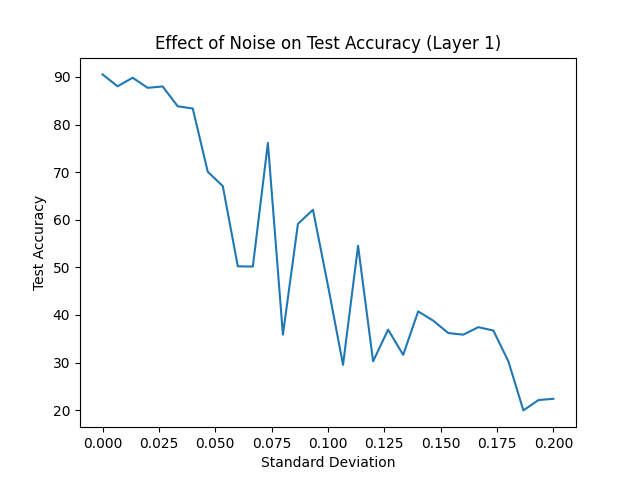
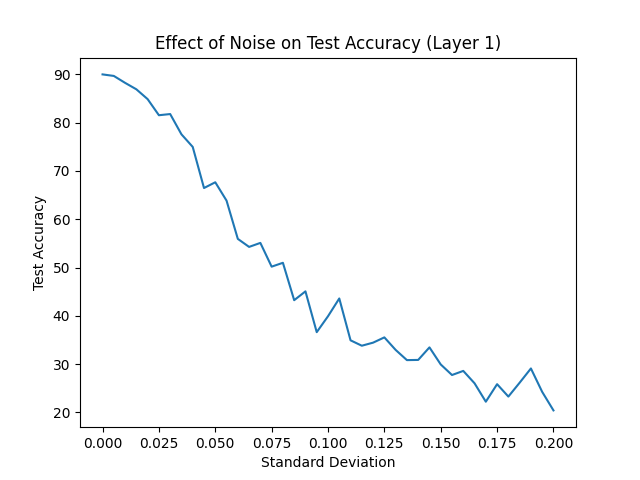
updated PyTorch graph with methods

diff --git a/noise_weight_analysis/FashionMNIST_Noise_PyTorch.py b/noise_weight_analysis/FashionMNIST_Noise_PyTorch.py
@@ -141,7 +141,7 @@ print(model)
 
 
 
-num_epochs = 15
+num_epochs = 20 
 for epoch in range(num_epochs):
     # training phase
     model.train()
@@ -237,8 +237,7 @@ def add_noise_to_model(model, layers, sigma, num_perturbations):
         # create individual modified model
         modified_model = deepcopy(model)
 
-        for i in range(len(layers)):
-        
+        for i in range(len(layers)): 
             layer_name = f'layer{i + 1}'
             layer = getattr(modified_model, layer_name)
     
@@ -251,13 +250,13 @@ def add_noise_to_model(model, layers, sigma, num_perturbations):
             noise_w = add_noise(weight_temp, sigma)
             noise_b = add_noise(bias_temp, sigma)
 
-
             # place values back into the modified model for analysis
             layer[0].weight.data = torch.from_numpy(noise_w).float()
             layer[0].bias.data = torch.from_numpy(noise_b).float()
 
         # append this modified model to the list
         modified_models.append(modified_model)
+
         
     return modified_models
 
@@ -320,12 +319,14 @@ if not os.path.exists("noise_plots_pytorch"):
 plt.style.use('default')
 
 # Initialize the standard deviation values
-sigma_vector = np.linspace(0, 0.2, 31)
+sigma_vector = np.linspace(0, 0.2, 41)
 
 all_test_accs = []
 
+layers = [1,2,3,4,5]
+
 # Loop over each layer and plot the test accuracy as a function of the standard deviation for that layer
-for layer in [1,2,3,4,5]:
+for layer in layers:
     
     # Initialize a list to store the test accuracies for this layer
     test_accs = []
@@ -333,7 +334,7 @@ for layer in [1,2,3,4,5]:
     # Iterate over the standard deviation values and add noise to the model for this layer only
     for sigma in sigma_vector:
 
-        noisy_models = add_noise_to_model(model, layer, sigma, num_perturbations)
+        noisy_models = add_noise_to_model(model, [layer], sigma, num_perturbations)
 
         accuracies = []
 
@@ -362,7 +363,7 @@ for layer in [1,2,3,4,5]:
     plt.show()
 
     # clear plot
-    plot.clf()
+    plt.clf()
 
     print("Done with plot Layer {}".format(layer))
 
